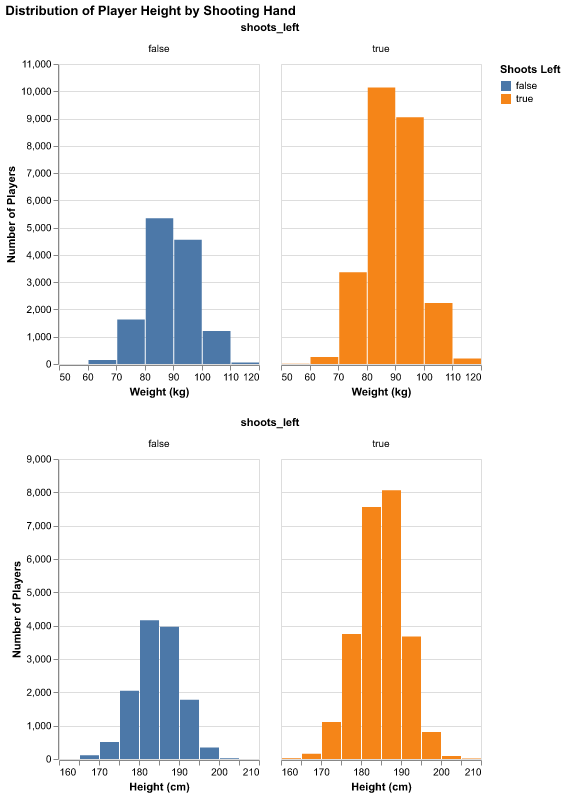
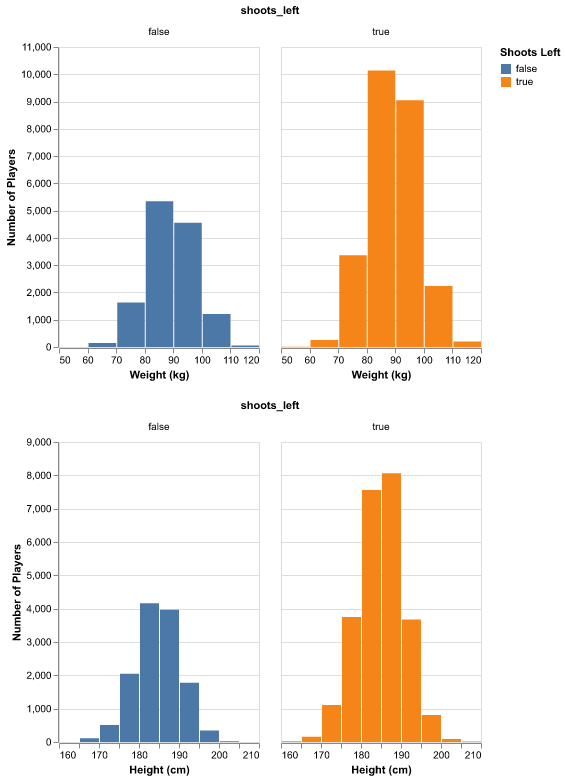
Modified scripts to remove titles from plots as they are captioned in qmd file

diff --git a/scripts/eda.py b/scripts/eda.py
@@ -54,7 +54,6 @@ def main(processed_training_data, tables_to, plot_to):
         alt.Y("count()", title="Number of Players"),
         alt.Color("shoots_left", title="Shoots Left")
         ).properties(
-            title="Distribution of Player Weight by Shooting Hand",
             height=300,
             width=200
         ).facet(
@@ -67,16 +66,13 @@ def main(processed_training_data, tables_to, plot_to):
         alt.Y("count()", title="Number of Players"),
         alt.Color("shoots_left", title="Shoots Left")
         ).properties(
-            title="Distribution of Player Height by Shooting Hand",
             height=300,
             width=200
         ).facet(
             "shoots_left",
         )
 
-    combined_chart = alt.vconcat(weight_chart, height_chart).properties(
-        title="Distribution of Player Height by Shooting Hand"
-    )
+    combined_chart = alt.vconcat(weight_chart, height_chart)
     combined_chart.save(os.path.join(plot_to, "combined_chart.png"))
 
 

diff --git a/scripts/shooting_hand_classifier.py b/scripts/shooting_hand_classifier.py
@@ -100,7 +100,6 @@ def main(training_data, test_data, preprocessor, pipeline_to, plot_to, results_t
     cm.ax_.set_yticklabels(["Shoots Right", "Shoots Left"])
     
     # Add a title and axis labels
-    cm.ax_.set_title("Confusion Matrix for Shooting Hand Prediction")
     cm.ax_.set_xlabel("Predicted Class")
     cm.ax_.set_ylabel("Actual Class")
     
